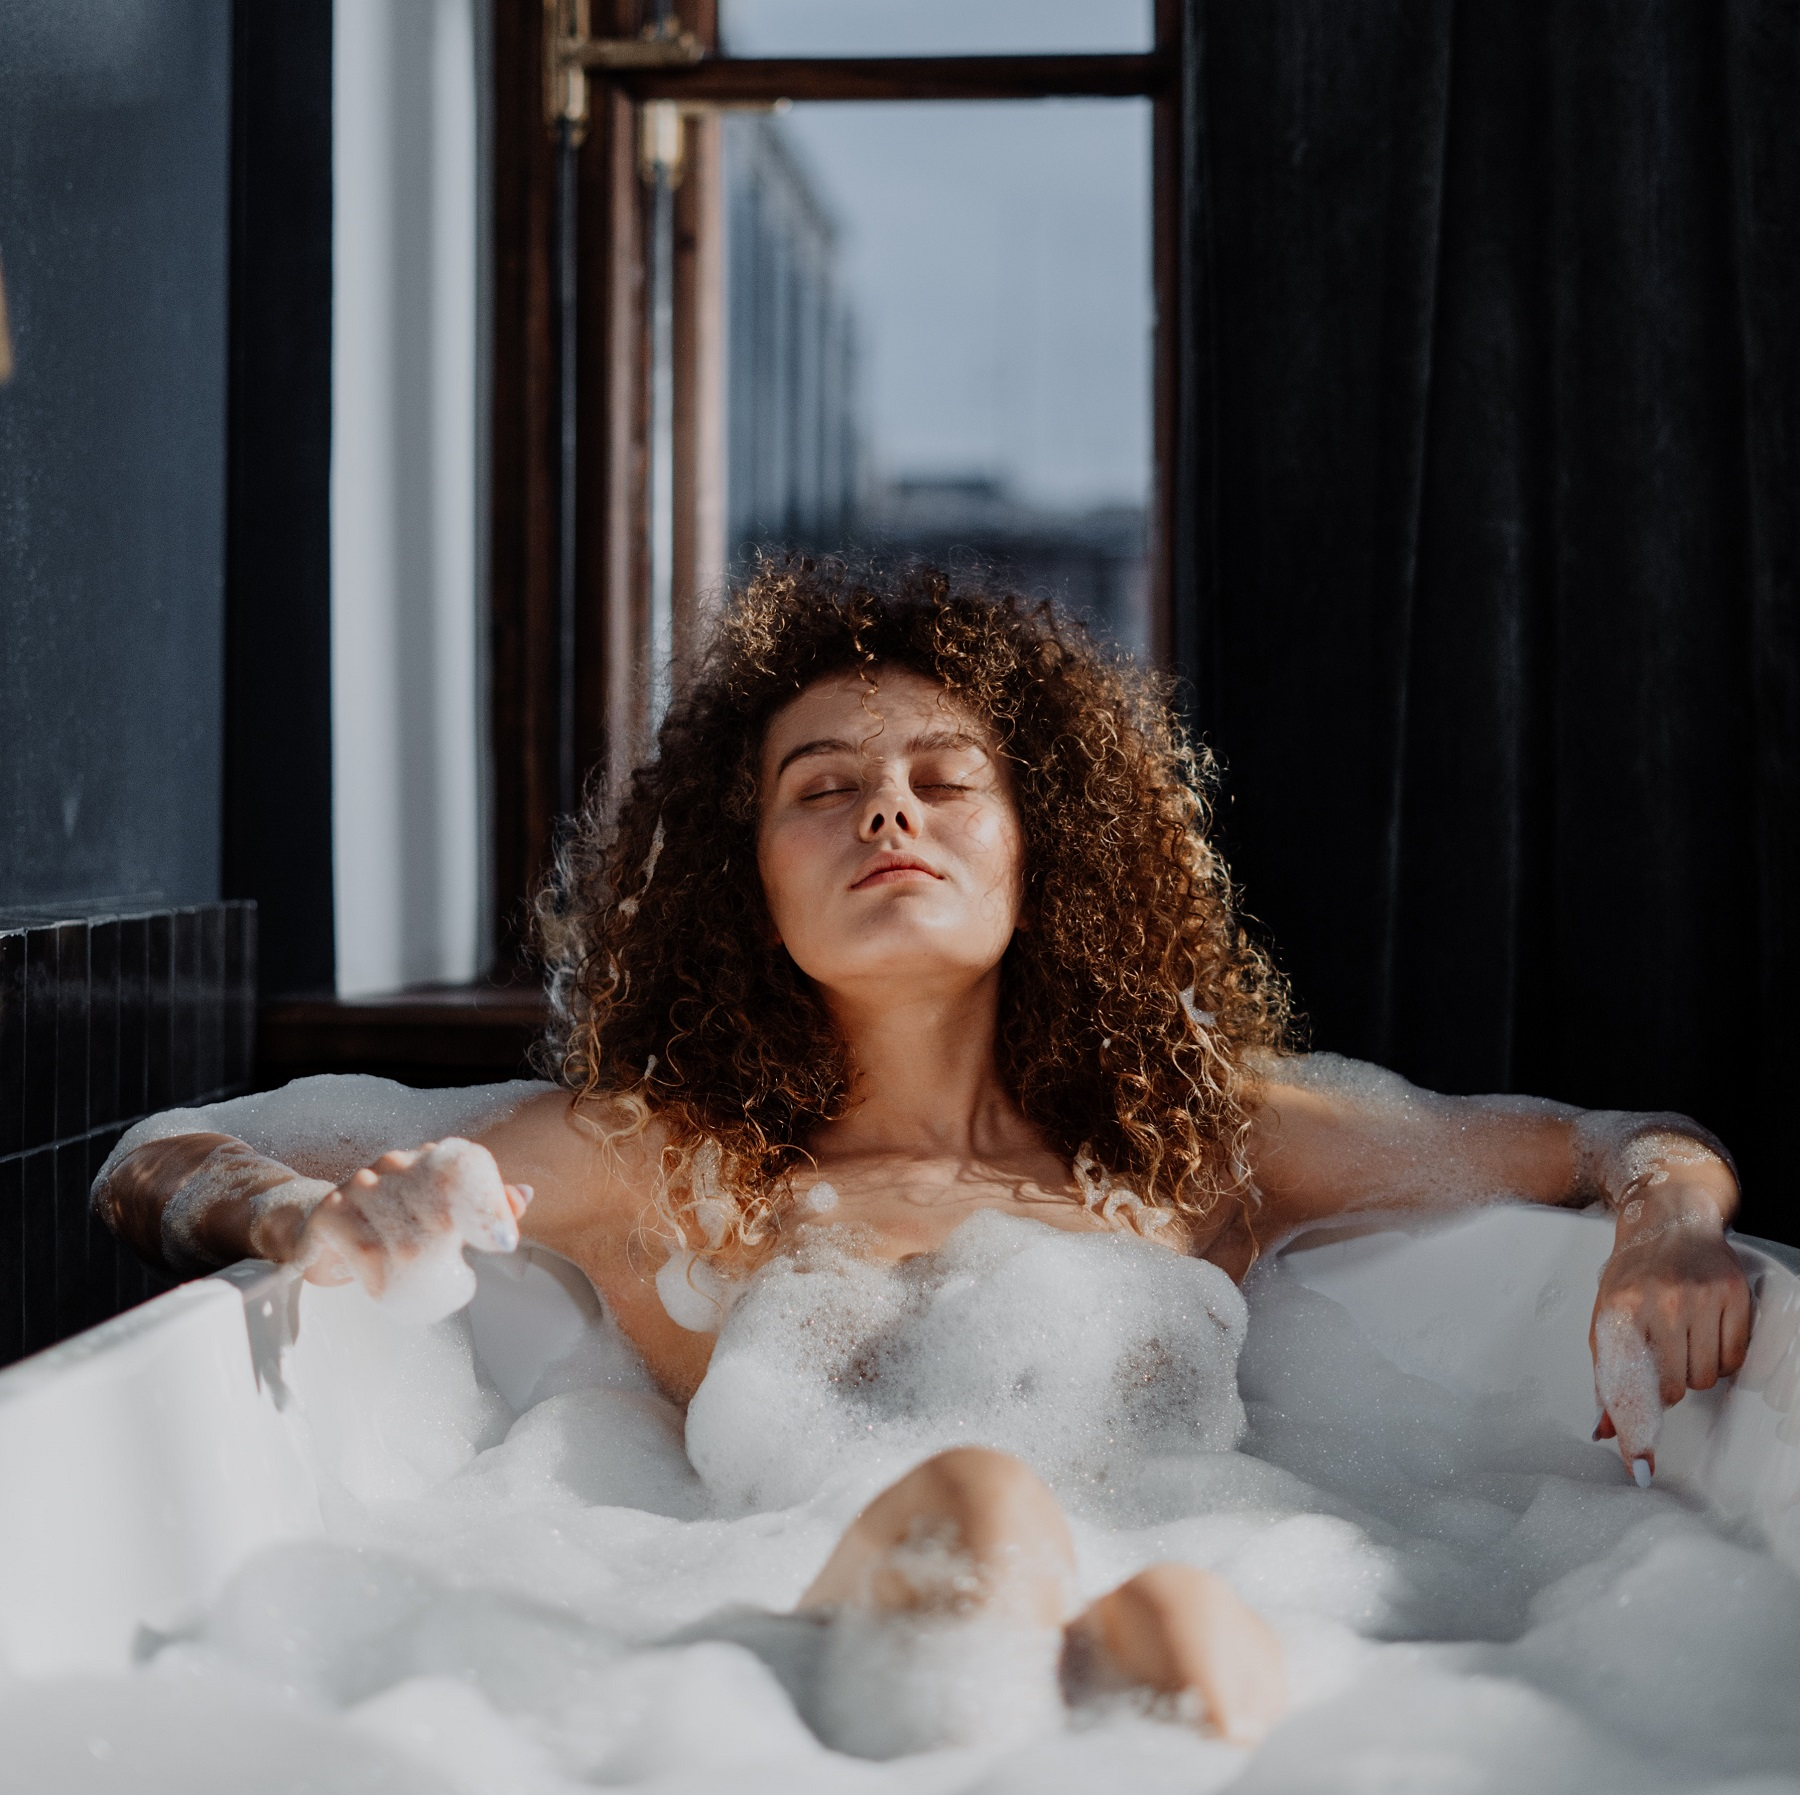
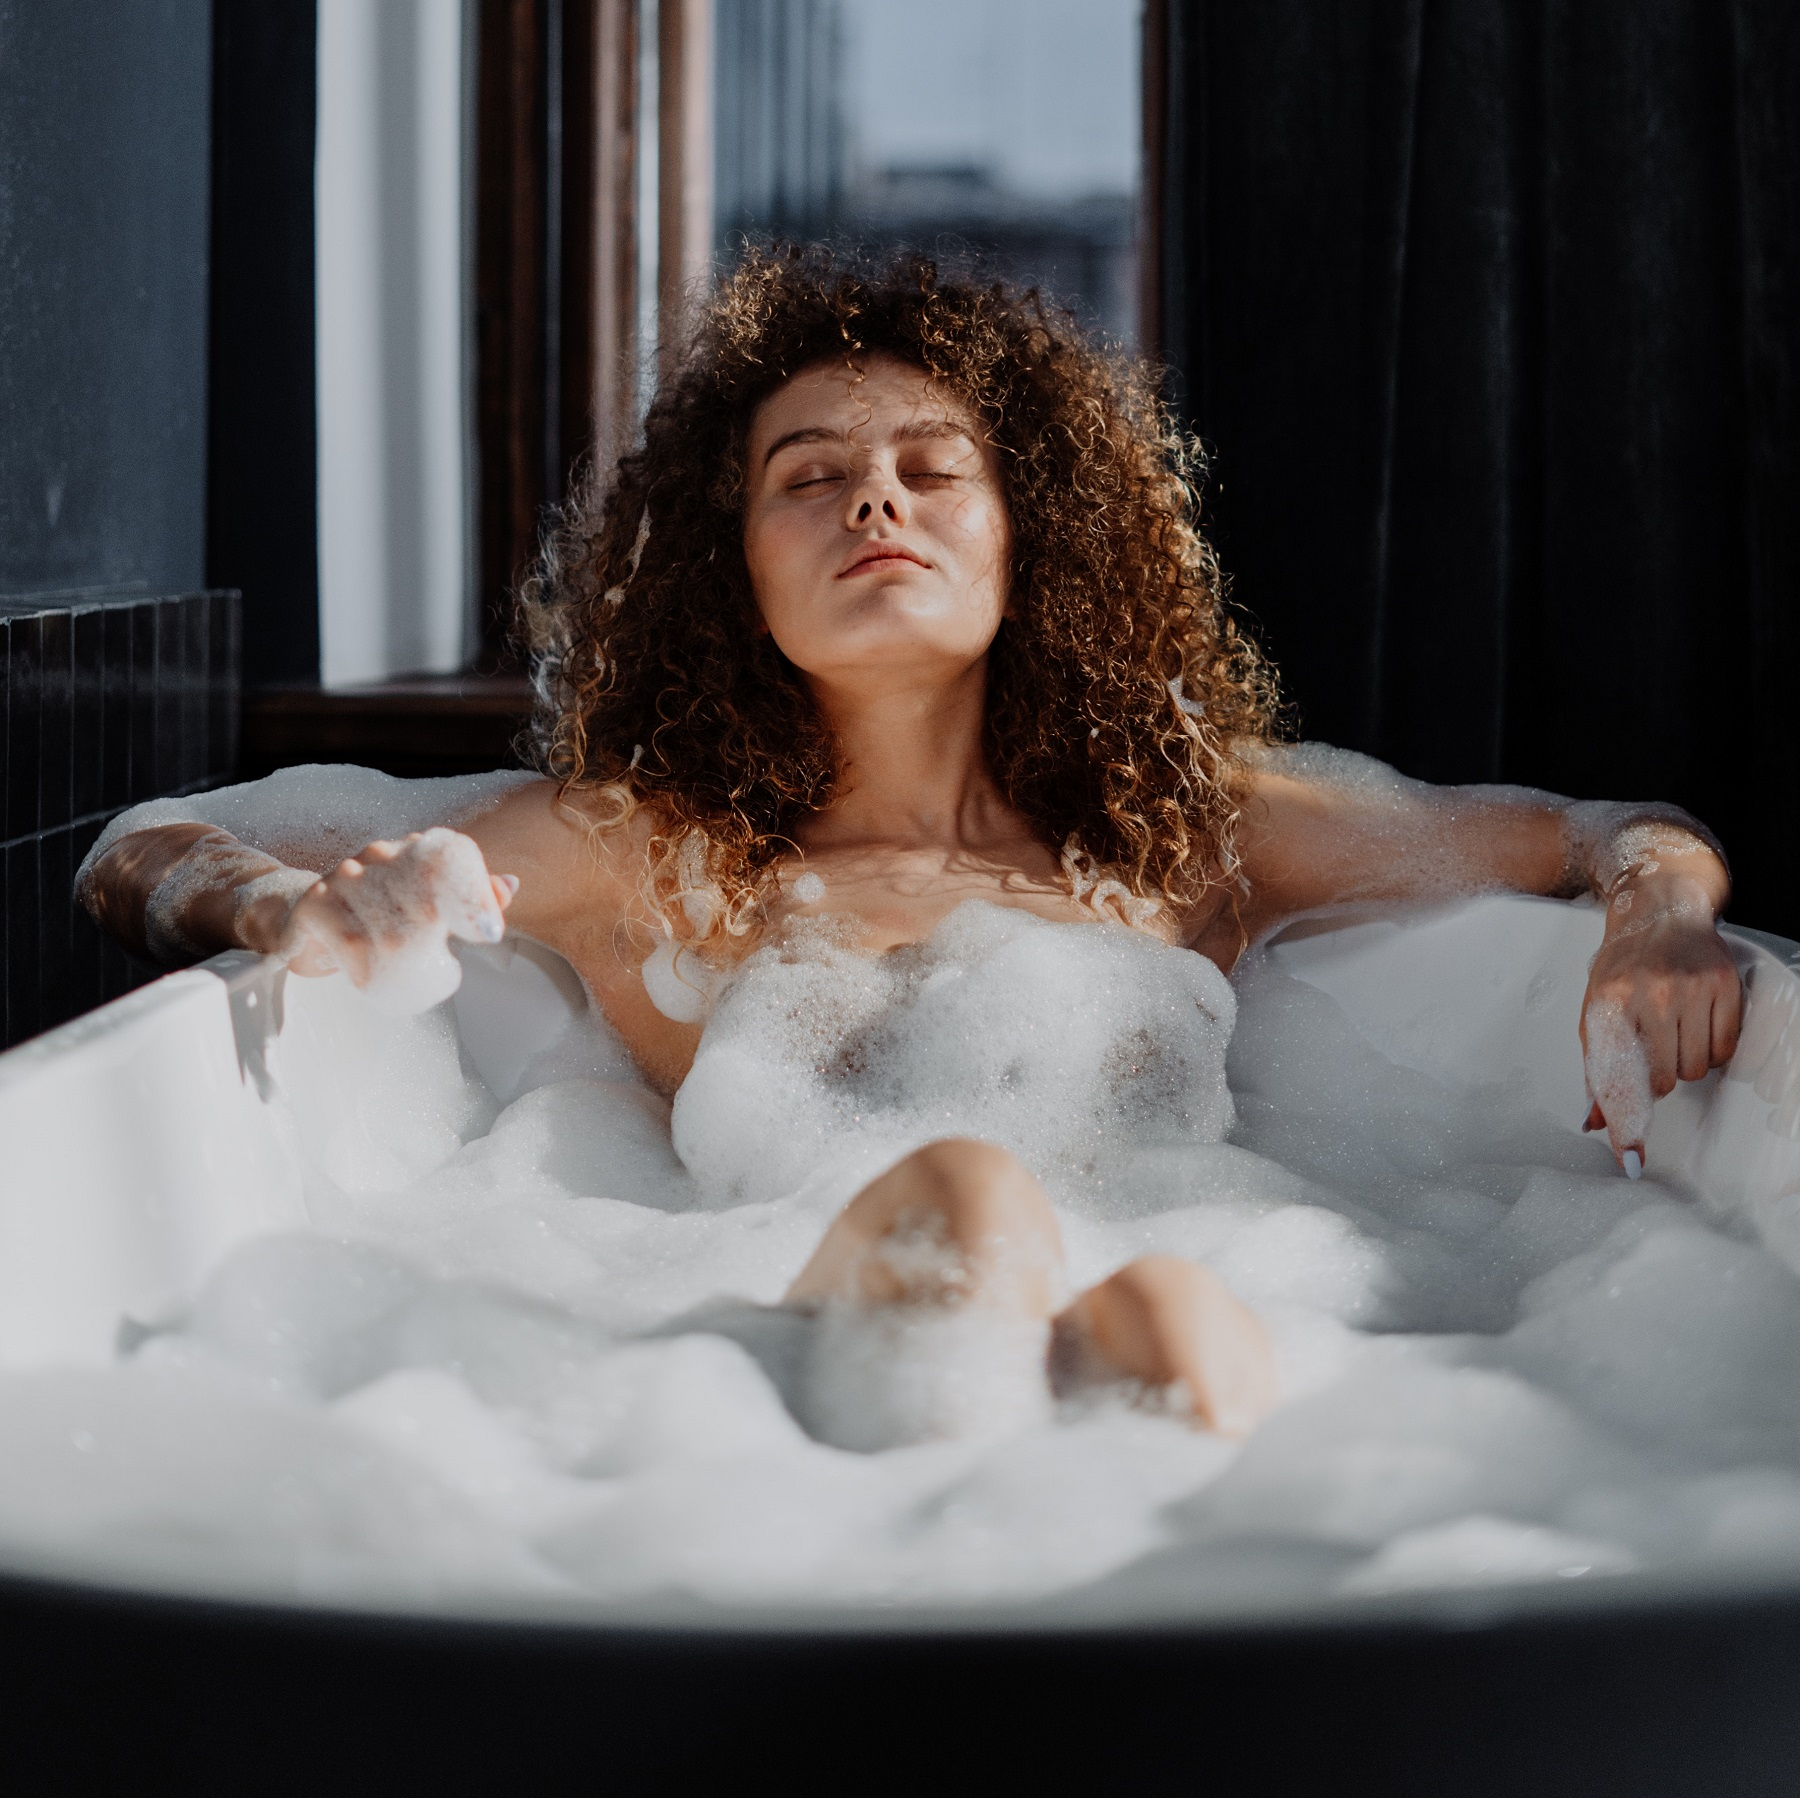
Update image and placement.

diff --git a/assets/css/style.css b/assets/css/style.css
@@ -119,7 +119,7 @@ nav .container-fluid {
 .hero-container-home {
     height: 100vh;
 
-    background: url("../images/hero-home.jpg") no-repeat top left fixed;
+    background: url("../images/hero-home.jpg") no-repeat top left;
     background-size: cover;
 
     display: flex;
